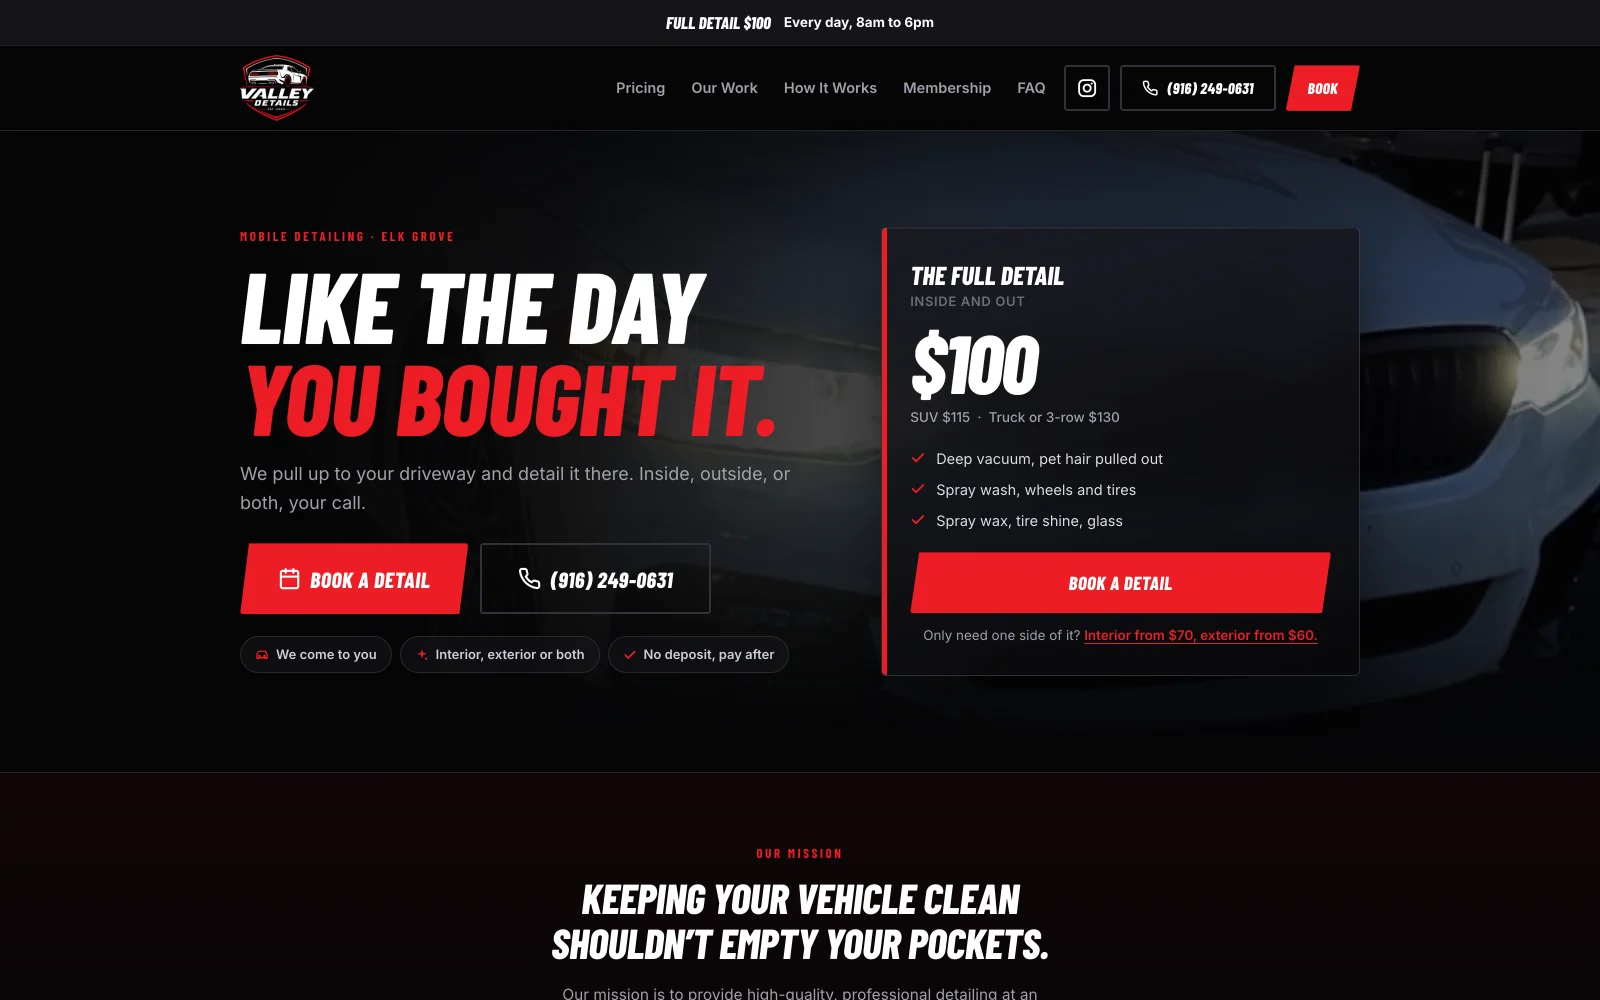
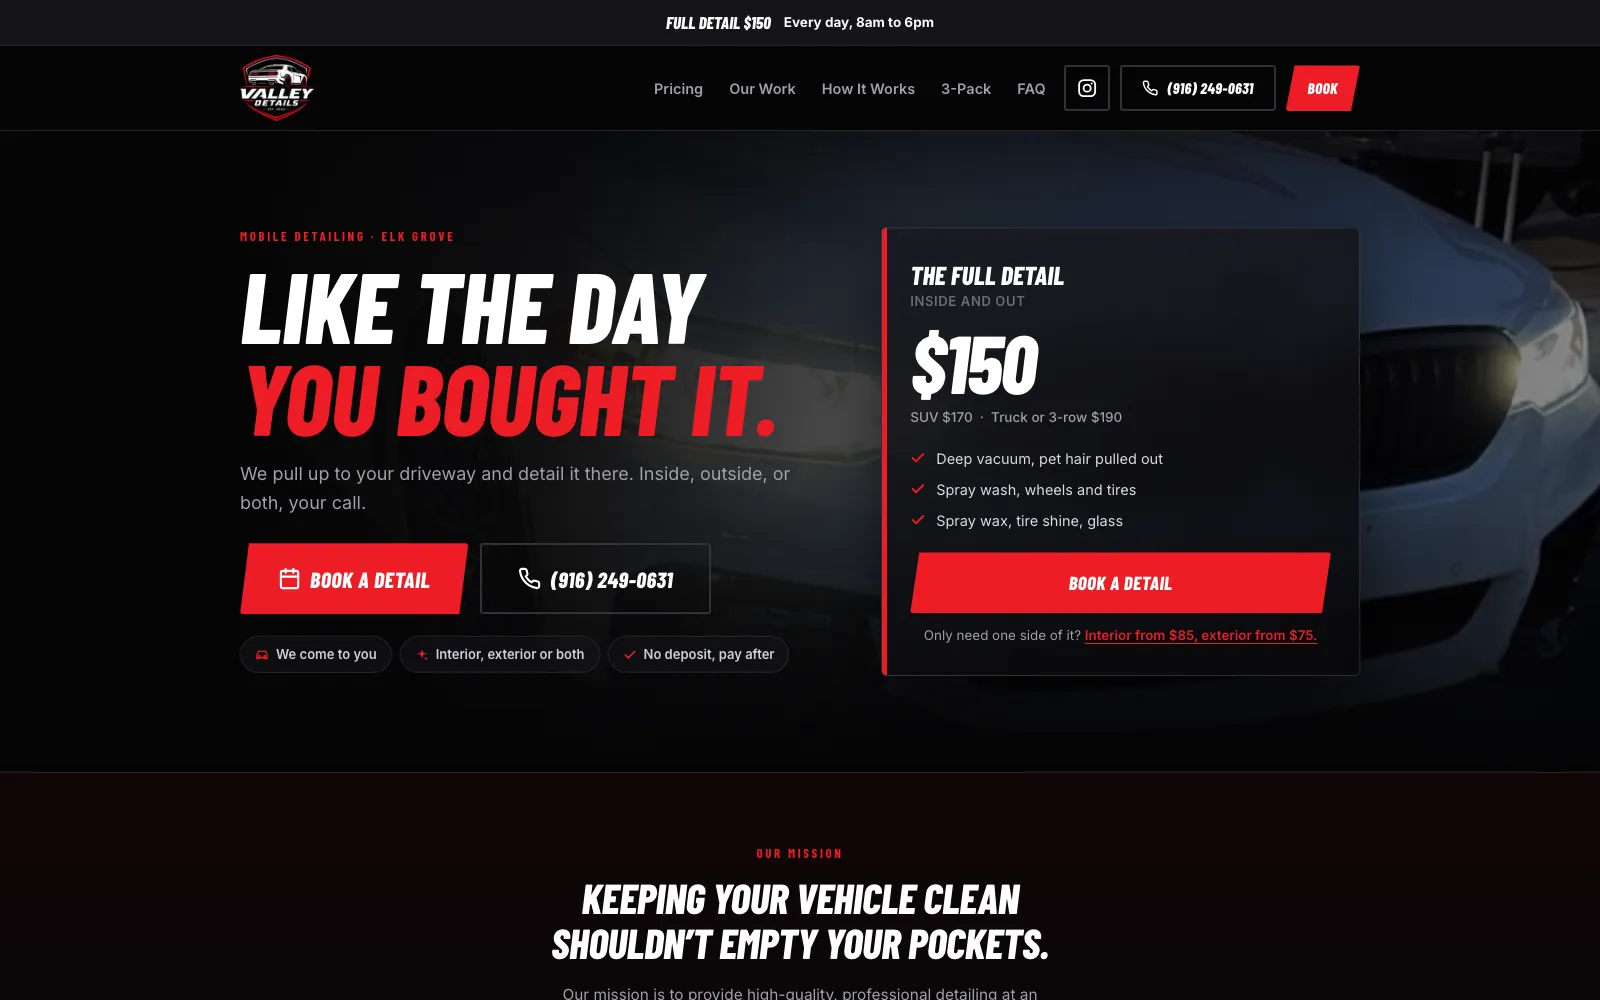
Homepage: Valley Details at its Sept 19 prices, and the 3-Pack in place of the retired Valley Club
- $100 becomes $150 everywhere it's quoted, and the hero, desktop and
  booking-step screenshots are recaptured from the live site.
- The membership card, "What I built" line, loop copy and Day 3 timeline
  step now describe the 3-Pack or a generic offer, since the Club is gone
  from valleydetails.site.
- Stylesheet and script links bumped so phones pick it up on refresh.

diff --git a/index.html b/index.html
@@ -28,7 +28,7 @@
 <link rel="preconnect" href="https://fonts.googleapis.com">
 <link rel="preconnect" href="https://fonts.gstatic.com" crossorigin>
 <link href="https://fonts.googleapis.com/css2?family=Geist:wght@400;500;600;700&family=Geist+Mono:wght@400;500&display=swap" rel="stylesheet">
-<link rel="stylesheet" href="home/tour.css?v=20260922b">
+<link rel="stylesheet" href="home/tour.css?v=20260922c">
 <!-- Meta Pixel -->
 <script>
   !function(f,b,e,v,n,t,s){if(f.fbq)return;n=f.fbq=function(){n.callMethod?
@@ -91,7 +91,7 @@
 
     <div class="hero-visual" aria-label="The Valley Details website on a phone next to a text conversation in the owner's dashboard">
       <figure class="phone phone-a">
-        <div class="phone-screen"><img src="home/img/vd-phone-hero.webp" alt="Valley Details website on a phone: Like the day you bought it. Full detail $100, Book a detail." width="390" height="844" fetchpriority="high"></div>
+        <div class="phone-screen"><img src="home/img/vd-phone-hero.webp" alt="Valley Details website on a phone: Like the day you bought it. Full detail $150, Book a detail." width="390" height="844" fetchpriority="high"></div>
       </figure>
       <figure class="phone phone-b">
         <div class="phone-screen"><img src="home/img/dash-phone-text.webp" alt="Owner dashboard text thread: booking confirmation, customer replies YES and asks a question, business answers." width="390" height="844"></div>
@@ -115,7 +115,7 @@
     <header class="sec-head">
       <p class="eyebrow">The proof</p>
       <h2>Valley Details is a real detailing business. I built everything it runs on.</h2>
-      <p class="lede">Mobile detailing out of Elk Grove: a full detail from $100, a one-hour Express, and a $149 a month membership. I'm involved on the ownership, marketing and operations side, so I don't just build the system. I see what it does with real bookings.</p>
+      <p class="lede">Mobile detailing out of Elk Grove: a $150 full detail, interior or exterior on its own, a one-hour Express from $50, and a prepaid 3-Pack. I'm involved on the ownership, marketing and operations side, so I don't just build the system. I see what it does with real bookings.</p>
       <a class="rating" href="https://www.google.com/search?q=Valley+Details&amp;stick=H4sIAAAAAAAA_-NgU1I1qDBKTkyysLS0SDZLMUw0TjG0MqgwMzVKTk5NTjRJMkgyMDZNXMTKF5aYk5NaqeCSWpKYmVMMAGJfezU6AAAA" target="_blank" rel="noopener">
         <span class="stars" aria-hidden="true">★★★★★</span>
         <b>5.0</b><span>from 8 Google reviews</span>
@@ -129,7 +129,7 @@
         <a class="url" href="https://valleydetails.site" target="_blank" rel="noopener"><svg viewBox="0 0 16 16" aria-hidden="true"><path d="M5 7V5a3 3 0 0 1 6 0v2" fill="none" stroke="currentColor" stroke-width="1.5"/><rect x="3.5" y="7" width="9" height="7" rx="1.5" fill="currentColor"/></svg>valleydetails.site</a>
         <a class="browser-open" href="https://valleydetails.site" target="_blank" rel="noopener">Visit live site ↗</a>
       </div>
-      <img src="home/img/vd-desktop-hero.webp" alt="Valley Details homepage on desktop with the $100 full detail offer and booking buttons" width="1600" height="1000" loading="lazy">
+      <img src="home/img/vd-desktop-hero.webp" alt="Valley Details homepage on desktop with the $150 full detail and booking buttons" width="1600" height="1000" loading="lazy">
     </figure>
 
     <div class="work reveal">
@@ -172,7 +172,7 @@
           <ul>
             <li>Review request when a job is marked complete</li>
             <li>$20 / $20 referral links that track themselves</li>
-            <li>Valley Club membership, rebook and win-back texts</li>
+            <li>A prepaid 3-Pack, rebook and win-back texts</li>
           </ul>
         </div>
       </div>
@@ -294,7 +294,7 @@
       </div>
 
       <ol class="notes">
-        <li class="reveal"><i>1</i><div><h3>The price is on the first screen</h3><p>$100, inside and out, no deposit. The question most people would call to ask is answered before they scroll.</p></div></li>
+        <li class="reveal"><i>1</i><div><h3>The price is on the first screen</h3><p>$150, inside and out, no deposit. The question most people would call to ask is answered before they scroll.</p></div></li>
         <li class="reveal"><i>2</i><div><h3>Call and Book never leave the screen</h3><p>On phones, both buttons stay pinned to the bottom. Whenever they're ready, they don't have to hunt.</p></div></li>
         <li class="reveal"><i>3</i><div><h3>Pick a time first. Details second.</h3><p>The service, the day and the time come first, so it reads like a calendar, not a form. Name, phone and car only show up after a time is tapped.</p></div></li>
         <li class="reveal"><i>4</i><div><h3>Real availability</h3><p>Times come from the live schedule. Taken slots show crossed out instead of disappearing, so the calendar never offers a time that's gone.</p></div></li>
@@ -475,11 +475,11 @@
 
       <div class="offers">
         <article class="offer-card reveal">
-          <figure class="phone phone-sm"><div class="phone-screen"><img src="home/img/vd-phone-club.webp" alt="The Valley Club membership section: $149 a month, two full details" width="390" height="844" loading="lazy"></div></figure>
+          <figure class="phone phone-sm"><div class="phone-screen"><img src="home/img/vd-phone-pack.webp" alt="The Valley 3-Pack section: three full details for $375, $125 each" width="390" height="844" loading="lazy"></div></figure>
           <div>
             <p class="tag">New offers</p>
-            <h3>Launch a membership without a separate system.</h3>
-            <p>Valley Details launched the Valley Club: two full details a month for $149, with ten founding spots. The site takes signups, the spots-left counter is real, and the system can pitch the Club by text a few days after a customer's detail.</p>
+            <h3>Launch a new offer without a separate system.</h3>
+            <p>Valley Details launched the Valley 3-Pack: three full details prepaid for $375, $125 each instead of $150. The site takes the signup, nothing is charged online, and it lands in the dashboard so the owner can text them to book the first one.</p>
           </div>
         </article>
         <article class="offer-card offer-plain reveal">
@@ -644,6 +644,6 @@
   <a class="btn btn-ink" href="#start">Talk to me</a>
 </div>
 
-<script src="home/tour.js?v=20260922b" defer></script>
+<script src="home/tour.js?v=20260922c" defer></script>
 </body>
 </html>

diff --git a/home/tour.js b/home/tour.js
@@ -97,8 +97,8 @@
       body: 'Their own link: $20 off for the friend, and $20 off for them once the friend\'s job is done. A new customer who arrives already trusting you.',
       vd: 'Referral links and credits tracked per customer and applied automatically.', href: '#back' },
     { k: '04', stage: 'Bring them back', label: 'Rebooked', title: 'They come back',
-      body: 'A nudge when they\'re due, a win-back if they go quiet, and offers like a membership. The next booking comes from someone you already earned.',
-      vd: 'Texts at 14, 28, 45 and 75 days, the Valley Club, and open-slot deals. Promos only go to people who opted in.', href: '#back' },
+      body: 'A nudge when they\'re due, a win-back if they go quiet, and offers like a prepaid pack. The next booking comes from someone you already earned.',
+      vd: 'Texts at 14, 28, 45 and 75 days, the Valley 3-Pack, and open-slot deals. Promos only go to people who opted in.', href: '#back' },
   ];
   (function loop() {
     const svg = $('.ring'); if (!svg) return;
@@ -360,8 +360,8 @@
     { d: 1, l: 'Referral', tag: 'Day 1', title: 'Their referral link',
       body: 'While the car still looks new. Sent once per customer, only for businesses that run referrals.',
       text: 'Hi Marcus, glad the car came out right. Your link gives friends $20 off their first detail with Valley Details, and you get $20 off your next one when they book: valleydetails.site/?ref=…' + STOP },
-    { d: 3, l: 'Membership', tag: 'Day 3', title: 'A membership offer',
-      body: 'For businesses with a membership like the Valley Club, a pitch goes out a few days after a customer\'s first or second detail. Each business writes its own, so there\'s no stock wording.',
+    { d: 3, l: 'Offer', tag: 'Day 3', title: 'A package or membership offer',
+      body: 'For businesses with a package or membership to sell, a pitch can go out a few days after a customer\'s first or second detail. Each business writes its own, so there\'s no stock wording.',
       text: null },
     { d: 14, l: 'Rebook', tag: 'Day 14', title: 'A friendly nudge',
       body: 'Not a coupon blast. A short text from a business they already know, with a link to book.',
